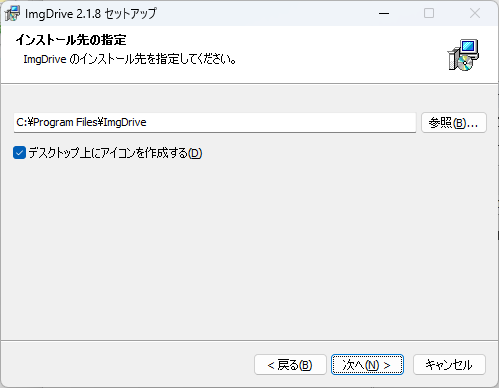
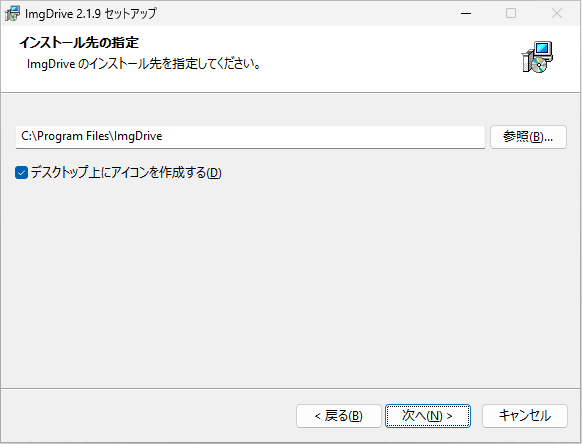
update image

Changed region(s): [[0.0, 0.0, 1.0, 1.0], [0.0301, 0.3711, 0.4208, 0.433], [0.8417, 0.0, 0.8717, 0.0619]]

diff --git a/20240922_ImgDrive のインストール/README.md b/20240922_ImgDrive のインストール/README.md
@@ -2,6 +2,8 @@
 
 環境構築 初心者向け 新人教育 ImgDrive Windows11
 
+![](03_imgdrive.png)
+
 ImgDriveは CD/DVD のバックアップを作成できるソフトウェアです。作成されたディスクイメージは仮想ドライブにマウントすることができます。個人は無料で使うことができ、商業利用の場合にはライセンスの購入が必要です。ここでは 個人ユーザ向けに ImgDrive のインストール方法を説明します。
 
 ## ImgDrive を使う目的
